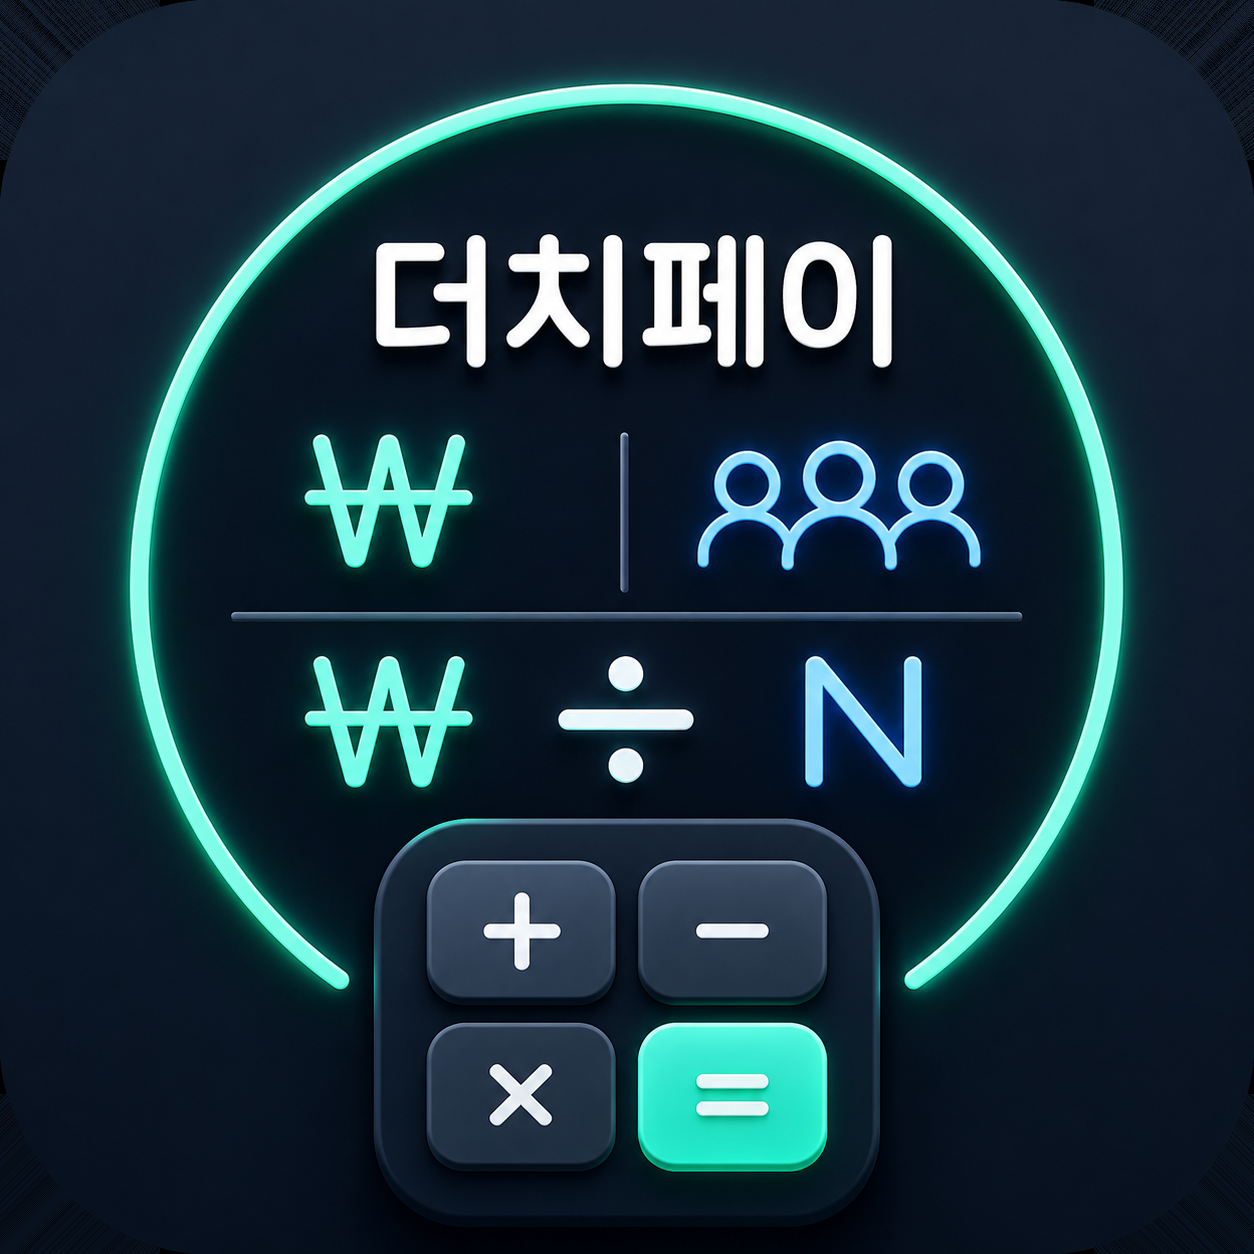
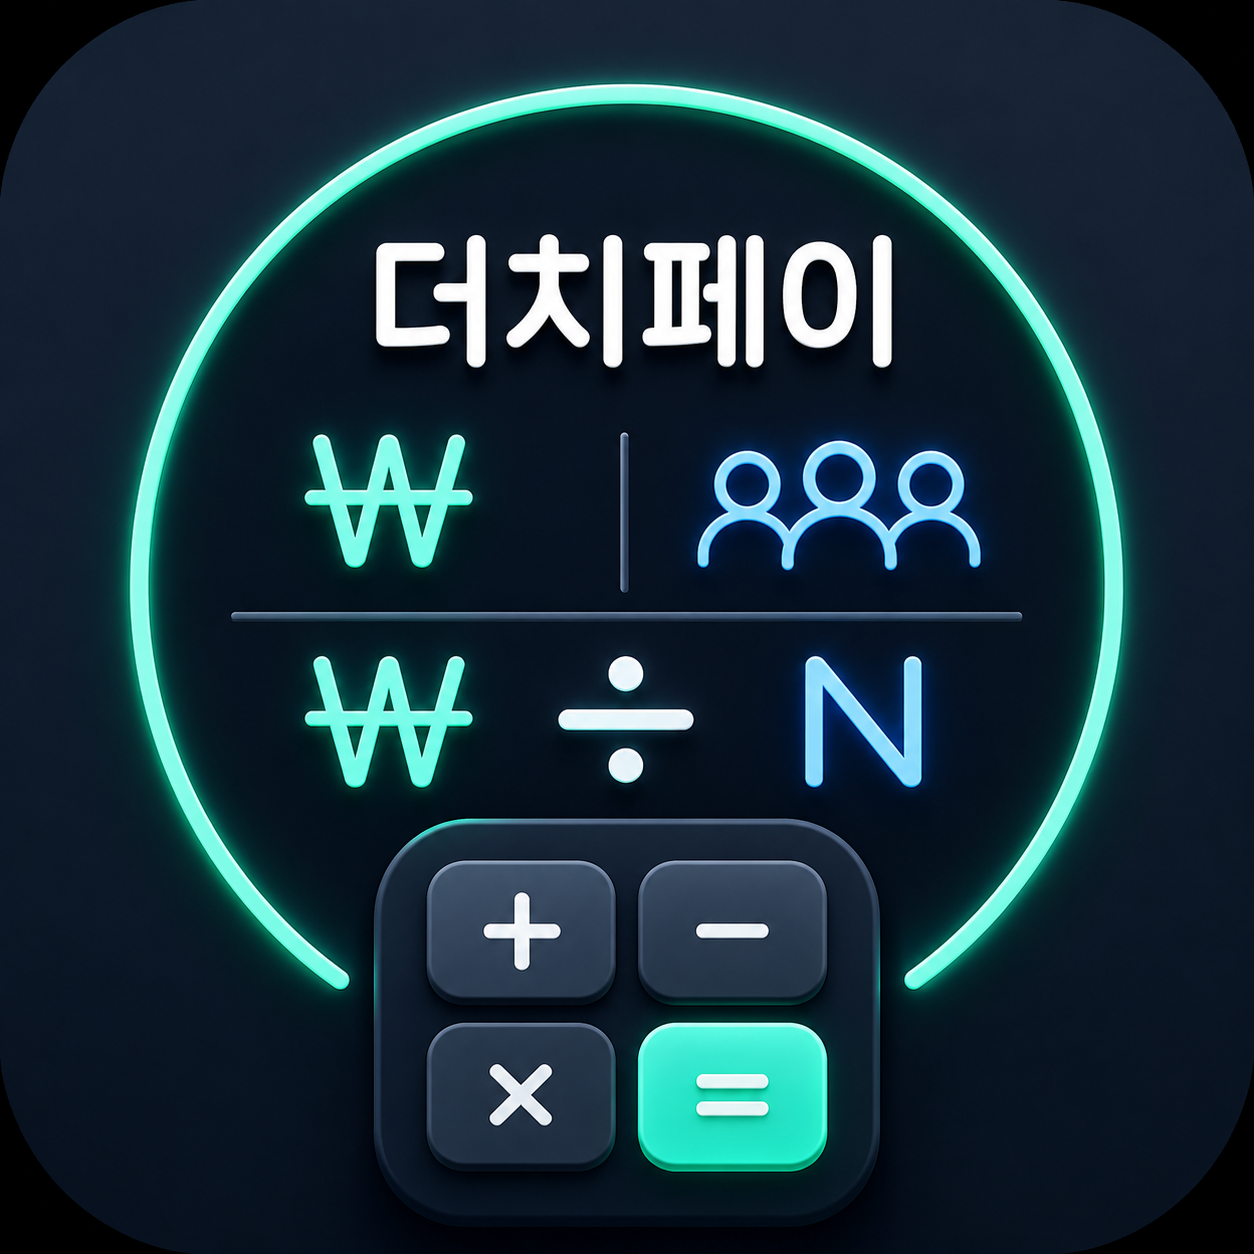
fix(dutchpay): 2차 UI 수정 — 아이콘 교체·버전위치·남는돈·타일간격·광고아이콘 (T-260616-03)
아니키 설치 후 피드백 일괄 반영:
- 앱 아이콘 최신본 교체(본진 dutchpay-icon3-master 2026-06-16, repo 미반영 스테일이었음) + 런처 아이콘 재생성 + 스플래시 로고 동기화
- 계산기 탭 버전 푸터 제거 → 설정 탭 하단에만 버전 표시
- 남는 돈을 1인당 금액 우측으로 이동(세로 나열 → 가로 Row)
- 인원수 박스와 결과 카드 사이 간격 추가(타일 겹침 해소)
- 광고제거 아이콘 우측 여백 4→12 (좀 더 좌측)

검증: analyze 0 / test 10 PASS / build ios release GREEN / 기기 설치 확인.

diff --git a/lib/screens/calculator_screen.dart b/lib/screens/calculator_screen.dart
@@ -122,7 +122,7 @@ class _CalculatorScreenState extends State<CalculatorScreen> {
               );
             },
           ),
-          SizedBox(width: 4 * scale),
+          SizedBox(width: 12 * scale),
         ],
       ),
       body: SafeArea(
@@ -277,6 +277,9 @@ class _CalculatorScreenState extends State<CalculatorScreen> {
                       ),
                     ),
 
+                    // 인원수 박스와 결과 카드 사이 간격(타일 겹침 방지, 아니키 2026-06-16)
+                    SizedBox(height: 14 * scale),
+
                     // 결과 표시
                     Expanded(
                       flex: 5,
@@ -343,42 +346,53 @@ class _CalculatorScreenState extends State<CalculatorScreen> {
                                         ],
                                       ),
                                       SizedBox(height: 6 * scale),
-                                      FittedBox(
-                                        fit: BoxFit.scaleDown,
-                                        child: Text(
-                                          '${_formatNumber(_perPerson!)}원',
-                                          style: TextStyle(
-                                            fontSize: 38 * scale,
-                                            fontWeight: FontWeight.w800,
-                                            color: AppColors.primary,
-                                            height: 1.0,
-                                            letterSpacing: -1.0,
-                                          ),
-                                        ),
-                                      ),
-                                      if (_remainder != null &&
-                                          _remainder! > 0) ...[
-                                        SizedBox(height: 8 * scale),
-                                        Container(
-                                          padding: EdgeInsets.symmetric(
-                                            horizontal: 10 * scale,
-                                            vertical: 4 * scale,
-                                          ),
-                                          decoration: BoxDecoration(
-                                            color: AppColors.fill,
-                                            borderRadius:
-                                                BorderRadius.circular(10),
-                                          ),
-                                          child: Text(
-                                            '남는 돈 ${_formatNumber(_remainder!)}원',
-                                            style: TextStyle(
-                                              fontSize: 11 * scale,
-                                              fontWeight: FontWeight.w600,
-                                              color: AppColors.textBody,
+                                      Row(
+                                        mainAxisAlignment:
+                                            MainAxisAlignment.center,
+                                        crossAxisAlignment:
+                                            CrossAxisAlignment.center,
+                                        children: [
+                                          Flexible(
+                                            child: FittedBox(
+                                              fit: BoxFit.scaleDown,
+                                              child: Text(
+                                                '${_formatNumber(_perPerson!)}원',
+                                                style: TextStyle(
+                                                  fontSize: 38 * scale,
+                                                  fontWeight: FontWeight.w800,
+                                                  color: AppColors.primary,
+                                                  height: 1.0,
+                                                  letterSpacing: -1.0,
+                                                ),
+                                              ),
                                             ),
                                           ),
-                                        ),
-                                      ],
+                                          // 남는 돈 — 1인당 금액 우측에 배치(아니키 2026-06-16)
+                                          if (_remainder != null &&
+                                              _remainder! > 0) ...[
+                                            SizedBox(width: 8 * scale),
+                                            Container(
+                                              padding: EdgeInsets.symmetric(
+                                                horizontal: 10 * scale,
+                                                vertical: 4 * scale,
+                                              ),
+                                              decoration: BoxDecoration(
+                                                color: AppColors.fill,
+                                                borderRadius:
+                                                    BorderRadius.circular(10),
+                                              ),
+                                              child: Text(
+                                                '남는 돈 ${_formatNumber(_remainder!)}원',
+                                                style: TextStyle(
+                                                  fontSize: 11 * scale,
+                                                  fontWeight: FontWeight.w600,
+                                                  color: AppColors.textBody,
+                                                ),
+                                              ),
+                                            ),
+                                          ],
+                                        ],
+                                      ),
                                       SizedBox(height: 8 * scale),
                                       SizedBox(
                                         width: double.infinity,

diff --git a/lib/screens/main_shell.dart b/lib/screens/main_shell.dart
@@ -1,7 +1,6 @@
 import 'package:flutter/material.dart';
 
 import '../theme/app_theme.dart';
-import '../widgets/version_footer.dart';
 import 'calculator_screen.dart';
 import 'settings_screen.dart';
 
@@ -32,16 +31,11 @@ class _MainShellState extends State<MainShell> {
           SettingsScreen(),
         ],
       ),
-      bottomNavigationBar: Column(
-        mainAxisSize: MainAxisSize.min,
-        children: [
-          const VersionFooter(),
-          _BottomTabBar(
-            index: _navIndex,
-            tabs: _tabs,
-            onTap: (i) => setState(() => _navIndex = i),
-          ),
-        ],
+      // 버전 푸터는 계산기 탭에선 숨기고 설정 탭 하단에만 노출(아니키 2026-06-16).
+      bottomNavigationBar: _BottomTabBar(
+        index: _navIndex,
+        tabs: _tabs,
+        onTap: (i) => setState(() => _navIndex = i),
       ),
     );
   }

diff --git a/lib/screens/settings_screen.dart b/lib/screens/settings_screen.dart
@@ -8,6 +8,7 @@ import '../services/account_service.dart';
 import '../services/app_review_service.dart';
 import '../services/iap_service.dart';
 import '../theme/app_theme.dart';
+import '../widgets/version_footer.dart';
 import 'policy_screen.dart';
 
 /// 설정 화면 — 계좌번호 / 평가 / 피드백 / 광고제거 / 구매복원 / 약관 / 개인정보.
@@ -130,6 +131,10 @@ class SettingsScreen extends StatelessWidget {
                   const PolicyScreen(
                       title: '개인정보처리방침',
                       assetPath: 'docs/legal/privacy-policy.md'))),
+          const Padding(
+            padding: EdgeInsets.only(top: 24, bottom: 8),
+            child: VersionFooter(),
+          ),
         ],
       ),
     );
